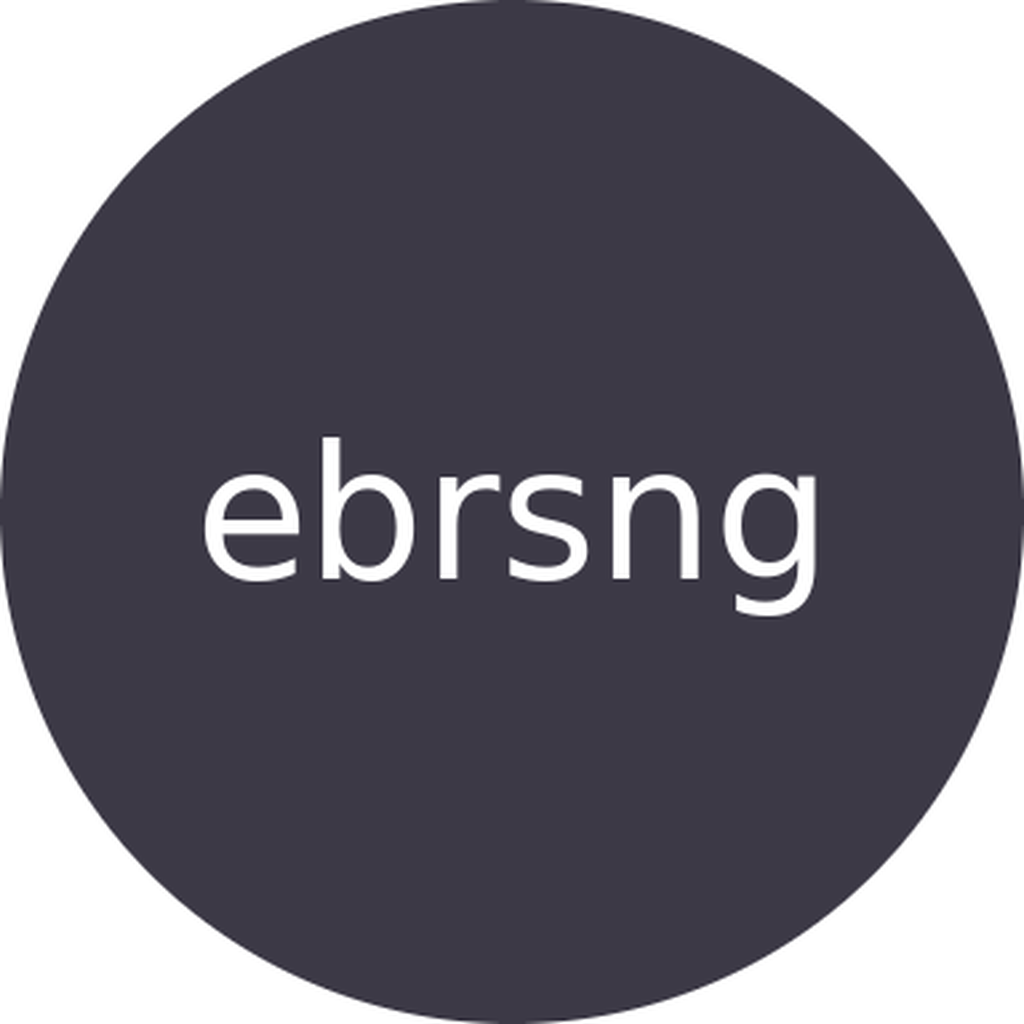
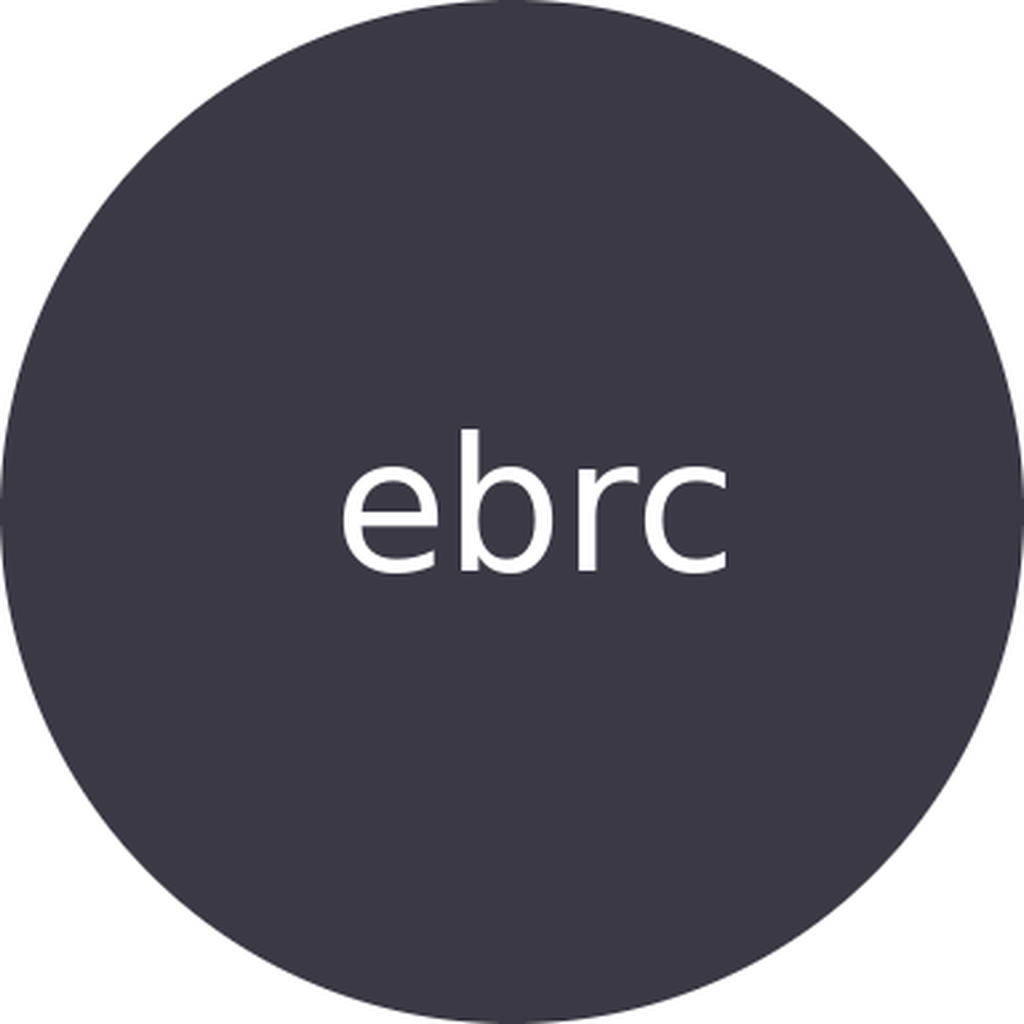
:alembic:production-in-review

Changed region(s): [[0.1875, 0.4062, 0.8125, 0.625]]

diff --git a/lib/home.dart b/lib/home.dart
@@ -69,7 +69,7 @@ class _HomePageState extends State<HomePage> {
               backgroundColor: Colors.grey.shade100,
               appBar: AppBar(
                 backgroundColor: bgColor,
-                title: const Text('Earn By Rewards NG',
+                title: const Text('Earn By Rewards Coin',
                     style: TextStyle(color: Colors.white, fontSize: 18)),
               ),
               body: SingleChildScrollView(
@@ -269,7 +269,7 @@ class _HomePageState extends State<HomePage> {
                     const Spacer(),
                     ListTile(
                       leading: Text(
-                        'v 1.0.3',
+                        'v 1.0.4',
                         style: TextStyle(color: bgColor),
                       ),
                     ),

diff --git a/lib/main.dart b/lib/main.dart
@@ -112,7 +112,7 @@ class SplashScreenState extends State<SplashScreen> {
                       fontWeight: FontWeight.bold,
                       fontSize: 24)),
               SizedBox(height: 10),
-              Text('Earn By Rewards NG',
+              Text('Earn By Rewards Coin',
                   style: TextStyle(color: Colors.white, fontSize: 18)),
               SizedBox(height: 20),
               CircularProgressIndicator(

diff --git a/image.py b/image.py
@@ -1,0 +1,18 @@
+import matplotlib.pyplot as plt
+import numpy as np
+
+# Set the background color
+fig, ax = plt.subplots(facecolor=(60/255, 57/255, 70/255))
+
+# Set the text
+text = 'ebrc'
+plt.text(0.5, 0.5, text, fontsize=50, color='white', ha='center', va='center')
+
+# Remove the axes
+ax.axis('off')
+
+# Save the image
+plt.savefig('ebrc.png', dpi=300, bbox_inches='tight')
+
+# Display the image
+plt.show()

diff --git a/README.md b/README.md
@@ -542,7 +542,6 @@ class AdsState extends State<Ads> {
 
 ```
 
-![working terminal](readme/Screenshot%20(1099).png?raw=true)
 
 [![Download on Google Play](https://cloud.githubusercontent.com/assets/5692567/10923351/6b688a92-8278-11e5-9973-8ffbf3c5cc52.png)](https://play.google.com/store/apps/details?id=com.blackstackhub.ebrc)
 
